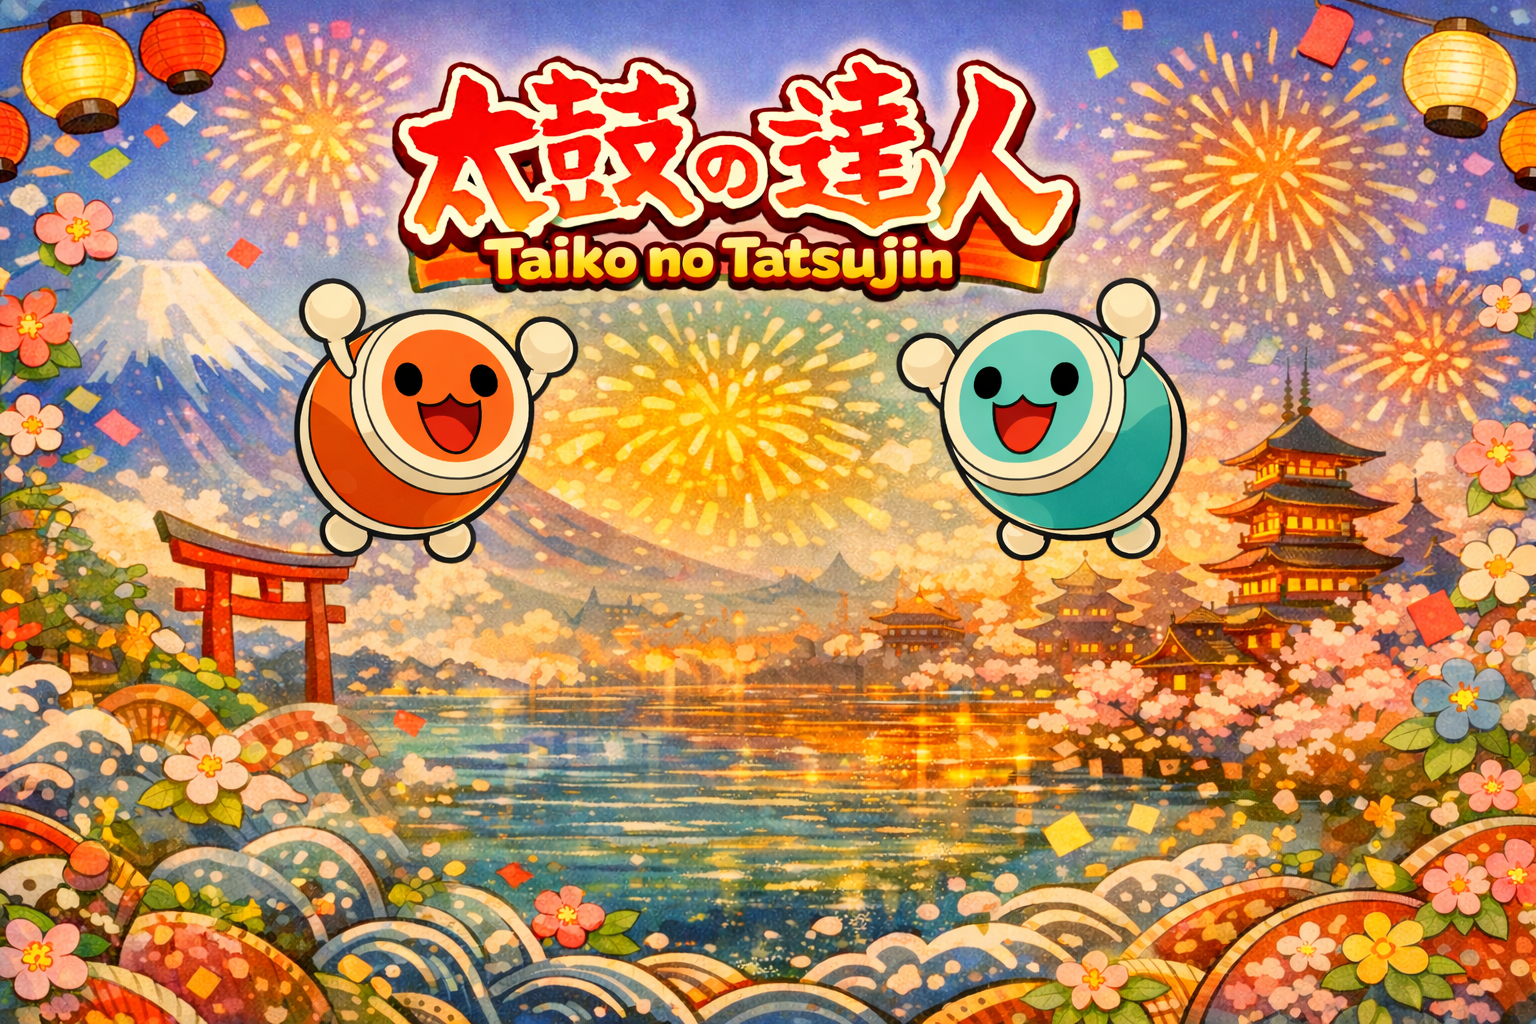
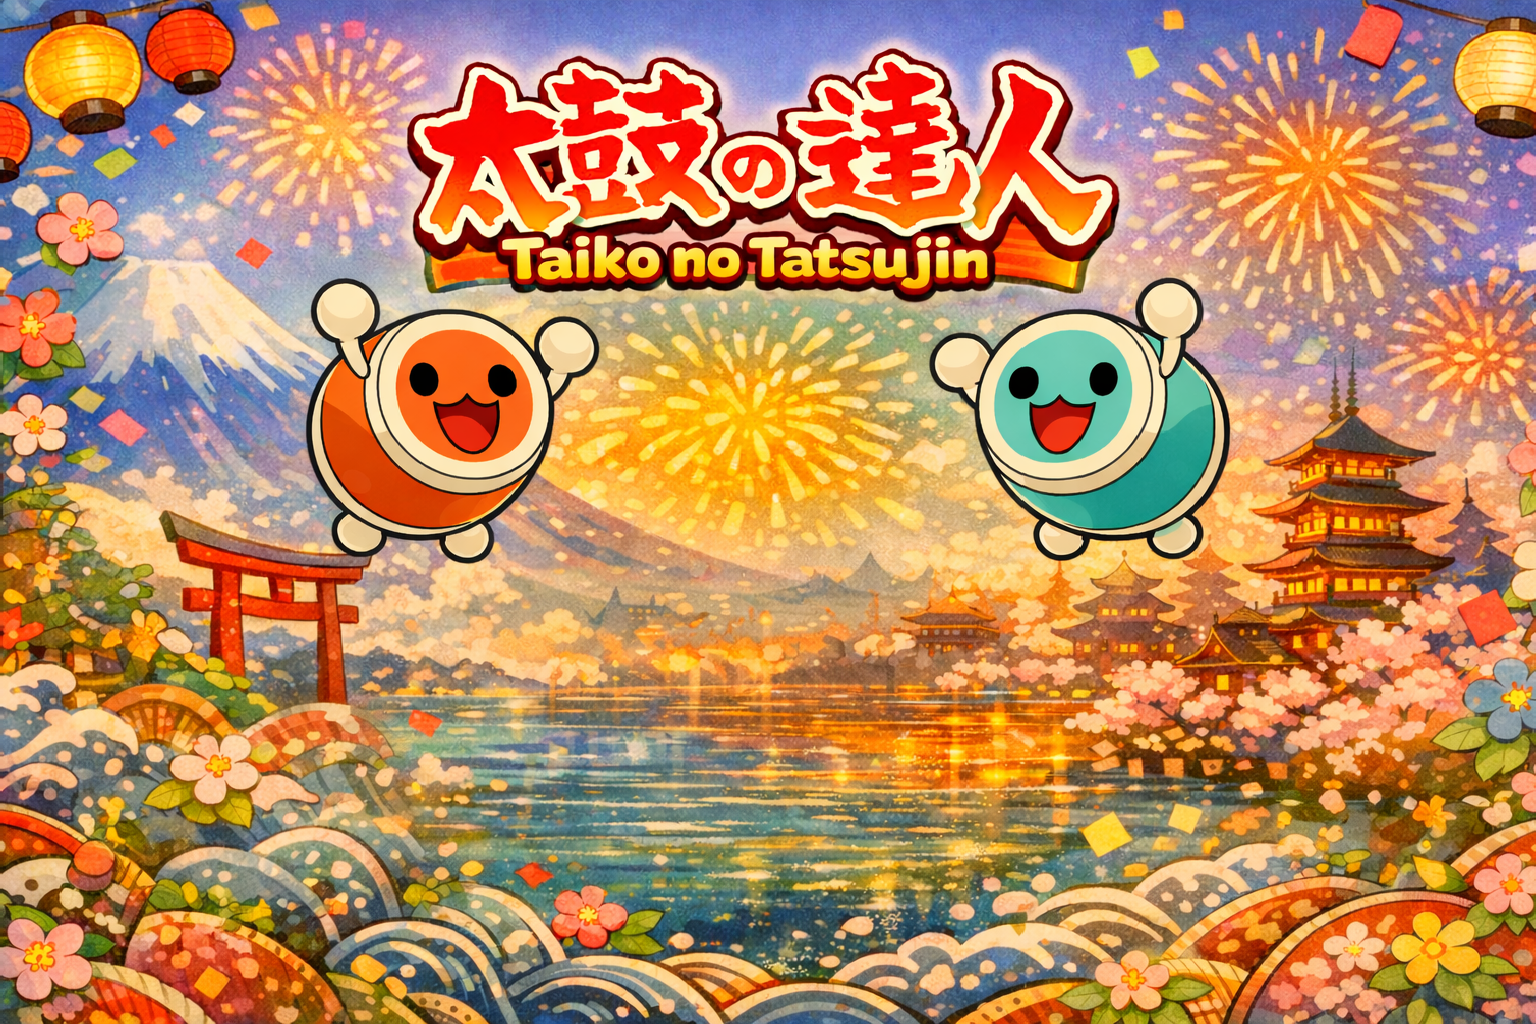
Title fix

diff --git a/CUHK_IERG3080_2025_fall_Final_Project/Style/Button.xaml b/CUHK_IERG3080_2025_fall_Final_Project/Style/Button.xaml
@@ -3,61 +3,73 @@
     xmlns:x="http://schemas.microsoft.com/winfx/2006/xaml"
     xmlns:sys="clr-namespace:System;assembly=mscorlib">
 
-	<Style x:Key="GlowingButtonStyle" TargetType="Button">
-		<!-- Base appearance -->
-		<Setter Property="Background" Value="#FF1E3A8A"/>
-		<!-- Deep blue -->
-		<Setter Property="Foreground" Value="#FFD4AF37"/>
-		<!-- Gold text -->
-		<Setter Property="BorderBrush" Value="#FFD4AF37"/>
-		<!-- Gold border -->
-		<Setter Property="BorderThickness" Value="2"/>
-		<Setter Property="Padding" Value="8,4"/>
-		<Setter Property="Cursor" Value="Hand"/>
-		<Setter Property="Effect" Value="{x:Null}"/>
-		<Setter Property="RenderTransformOrigin" Value="0.5,0.5"/>
+	<!-- Default style for all Buttons -->
+	<Style TargetType="Button">
+		<!-- Font -->
+		<Setter Property="FontFamily" Value="Segoe UI Black"/>
+		<!-- strong, game-like font -->
+		<Setter Property="FontSize" Value="12"/>
+		<Setter Property="FontWeight" Value="Bold"/>
 
+		<!-- Colors -->
+		<Setter Property="Background" Value="#FF1E3A8A"/>
+		<!-- deep royal blue -->
+		<Setter Property="Foreground" Value="#FFFFD700"/>
+		<!-- bright gold text -->
+		<Setter Property="BorderBrush" Value="#FFFFD700"/>
+		<!-- gold border -->
+		<Setter Property="BorderThickness" Value="3"/>
+		<!-- thicker border -->
+
+		<!-- Layout -->
+		<Setter Property="Padding" Value="10,6"/>
+		<Setter Property="Cursor" Value="Hand"/>
+		<Setter Property="RenderTransformOrigin" Value="0.5,0.5"/>
 		<Setter Property="RenderTransform">
 			<Setter.Value>
 				<ScaleTransform ScaleX="1" ScaleY="1"/>
 			</Setter.Value>
 		</Setter>
 
-		<!-- Button template -->
+		<!-- Sharp edges: no CornerRadius -->
 		<Setter Property="Template">
 			<Setter.Value>
 				<ControlTemplate TargetType="Button">
 					<Border x:Name="Bd"
-                            Background="{TemplateBinding Background}"
-                            BorderBrush="{TemplateBinding BorderBrush}"
-                            BorderThickness="{TemplateBinding BorderThickness}"
-                            CornerRadius="6"
-                            Padding="{TemplateBinding Padding}">
+							Background="{TemplateBinding Background}"
+							BorderBrush="{TemplateBinding BorderBrush}"
+							BorderThickness="{TemplateBinding BorderThickness}"
+							CornerRadius="0"
+							Padding="{TemplateBinding Padding}">
 						<ContentPresenter
-                            HorizontalAlignment="Center"
-                            VerticalAlignment="Center"
-                            RecognizesAccessKey="True"/>
+							HorizontalAlignment="Center"
+							VerticalAlignment="Center"
+							Margin="0"
+							RecognizesAccessKey="True"
+							Content="{TemplateBinding Content}"
+							ContentTemplate="{TemplateBinding ContentTemplate}"/>
 					</Border>
 				</ControlTemplate>
 			</Setter.Value>
 		</Setter>
 
-		<Style.Triggers>
 
-			<!-- Hover highlight -->
+		<!-- Triggers -->
+		<Style.Triggers>
+			<!-- Hover -->
 			<Trigger Property="IsMouseOver" Value="True">
 				<Setter Property="Background" Value="#FF3B82F6"/>
-				<!-- Lighter blue -->
-				<Setter Property="Foreground" Value="#FFFFE08A"/>
-				<!-- Brighter gold -->
-				<Setter Property="BorderBrush" Value="#FFFFE08A"/>
+				<!-- lighter blue -->
+				<Setter Property="Foreground" Value="#FFFFFFE0"/>
+				<!-- brighter gold-white -->
+				<Setter Property="BorderBrush" Value="#FFFFFFE0"/>
 				<Setter Property="Effect">
 					<Setter.Value>
 						<DropShadowEffect
-                            Color="#803B82F6"
-                            BlurRadius="18"
+                            Color="#FFFFD700"
+                            BlurRadius="15"
                             ShadowDepth="0"
-                            Opacity="0.9"/>
+                            Opacity="0.8"/>
 					</Setter.Value>
 				</Setter>
 				<Setter Property="RenderTransform">
@@ -71,9 +83,11 @@
 			<Trigger Property="IsPressed" Value="True">
 				<Setter Property="RenderTransform">
 					<Setter.Value>
-						<ScaleTransform ScaleX="0.97" ScaleY="0.97"/>
+						<ScaleTransform ScaleX="0.95" ScaleY="0.95"/>
 					</Setter.Value>
 				</Setter>
+				<Setter Property="Background" Value="#FF0F245C"/>
+				<!-- darker royal blue -->
 			</Trigger>
 
 			<!-- Disabled -->
@@ -82,7 +96,7 @@
 				<Setter Property="Cursor" Value="Arrow"/>
 			</Trigger>
 
-			<!-- Click sound effect -->
+			<!-- Click sound -->
 			<EventTrigger RoutedEvent="PreviewMouseLeftButtonDown">
 				<BeginStoryboard>
 					<Storyboard>
@@ -92,8 +106,6 @@
 					</Storyboard>
 				</BeginStoryboard>
 			</EventTrigger>
-
 		</Style.Triggers>
 	</Style>
-
 </ResourceDictionary>

diff --git a/CUHK_IERG3080_2025_fall_Final_Project/View/TitleScreen.xaml b/CUHK_IERG3080_2025_fall_Final_Project/View/TitleScreen.xaml
@@ -4,21 +4,24 @@
              xmlns:mc="http://schemas.openxmlformats.org/markup-compatibility/2006" 
              xmlns:d="http://schemas.microsoft.com/expression/blend/2008" 
              xmlns:local="clr-namespace:CUHK_IERG3080_2025_fall_Final_Project.View"
-             xmlns:vm="clr-namespace:CUHK_IERG3080_2025_fall_Final_Project.ViewModel"
+             xmlns:model="clr-namespace:CUHK_IERG3080_2025_fall_Final_Project.Model"
              mc:Ignorable="d" 
              d:DesignHeight="450"
              d:DesignWidth="800">
 
     <Grid>
         <!-- Background image -->
-        <Image Source="pack://application:,,,/Assets/TitleBackground.png"
-               Stretch="UniformToFill"
-               Panel.ZIndex="0"/>
+		<Image Source="/CUHK_IERG3080_2025_fall_Final_Project;component/Assets/Image/TitleBG.png"
+			   Stretch="UniformToFill"
+			   HorizontalAlignment="Center"
+			   VerticalAlignment="Top"
+			   Panel.ZIndex="0"/>
 
-        <!-- Foreground content -->
+
+		<!-- Foreground content -->
         <Grid Panel.ZIndex="2">
             <Grid.RowDefinitions>
-                <RowDefinition Height="Auto"/>
+                <RowDefinition Height="*"/>
                 <RowDefinition Height="*"/>
                 <RowDefinition Height="Auto"/>
             </Grid.RowDefinitions>
@@ -29,20 +32,20 @@
                         HorizontalAlignment="Center"
                         VerticalAlignment="Center">
 
-                <Button Content="Singleplayer"
-                        Width="160"
-                        Height="42"
-                        Margin="0,6"
-                        Command="{Binding SinglePlayerCommand}"
-                        CommandParameter="{x:Static vm:GameModeManager.Mode.SinglePlayer}"/>
+				<Button Content="SINGLEPLAYER"
+						Width="160"
+						Height="42"
+						Margin="0,6"
+						Command="{Binding SinglePlayerCommand}"
+						CommandParameter="{x:Static model:GameModeManager+Mode.SinglePlayer}"/>
 
-                <Button Content="Local Multiplayer"
+				<Button Content="LOCAL MULTIPLAYER"
                         Width="160"
                         Height="42"
                         Margin="0,6"
                         Command="{Binding LocalMultiPlayerCommand}"/>
 
-                <Button Content="Online Multiplayer"
+                <Button Content="ONLINE MULTIPLAYER"
                         Width="160"
                         Height="42"
                         Margin="0,6"
@@ -51,8 +54,8 @@
 
             <!-- Settings button -->
             <Button Grid.Row="2"
-                    Content="Settings"
-                    Width="140"
+                    Content="SETTINGS"
+                    Width="160"
                     Height="40"
                     HorizontalAlignment="Center"
                     Margin="0,12,0,24"

diff --git a/CUHK_IERG3080_2025_fall_Final_Project/MainWindow.xaml b/CUHK_IERG3080_2025_fall_Final_Project/MainWindow.xaml
@@ -10,7 +10,9 @@
         Width="800"
         Height="450"
         MinWidth="800"
-        MinHeight="450">
+        MinHeight="450"
+	    SizeChanged="Window_SizeChanged">
+
 
 	<Window.DataContext>
 		<vm:NavigationVM/>

diff --git a/CUHK_IERG3080_2025_fall_Final_Project/MainWindow.xaml.cs b/CUHK_IERG3080_2025_fall_Final_Project/MainWindow.xaml.cs
@@ -18,18 +18,33 @@ namespace CUHK_IERG3080_2025_fall_Final_Project
 {
     public partial class MainWindow : Window
     {
+        private const double AspectRatio = 16.0 / 9.0;
+        private bool _resizing = false;
+
         public MainWindow()
         {
             InitializeComponent();
-
-            // Handle window closing to cleanup audio resources
             this.Closing += MainWindow_Closing;
         }
 
         private void MainWindow_Closing(object sender, System.ComponentModel.CancelEventArgs e)
         {
-            // Cleanup audio resources when closing the application
             AudioManager.Cleanup();
+        }
+
+        // This is the handler referenced in XAML
+        private void Window_SizeChanged(object sender, SizeChangedEventArgs e)
+        {
+            if (_resizing) return;
+            _resizing = true;
+
+            if (e.WidthChanged)
+                this.Height = this.Width / AspectRatio;
+            else if (e.HeightChanged)
+                this.Width = this.Height * AspectRatio;
+
+            _resizing = false;
         }
     }
 }
+

diff --git a/CUHK_IERG3080_2025_fall_Final_Project/Utility/AudioManager.cs b/CUHK_IERG3080_2025_fall_Final_Project/Utility/AudioManager.cs
@@ -41,7 +41,7 @@ namespace CUHK_IERG3080_2025_fall_Final_Project.Utility
             try
             {
                 // Load the background music file
-                var uri = new Uri("pack://application:,,,/Assets/Sound/background.mp3");
+                var uri = new Uri("pack://application:,,,/CUHK_IERG3080_2025_fall_Final_Project;component/Assets/Sound/background.mp3");
                 _backgroundMusicPlayer.Open(uri);
                 _backgroundMusicPlayer.Volume = BackgroundVolume;
                 _backgroundMusicPlayer.Play();
